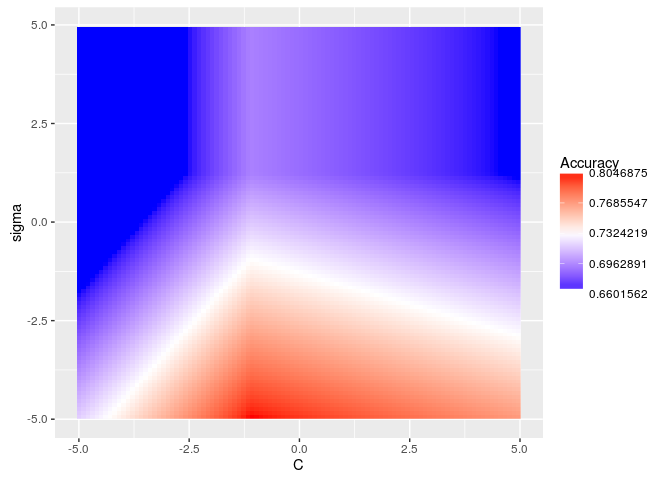
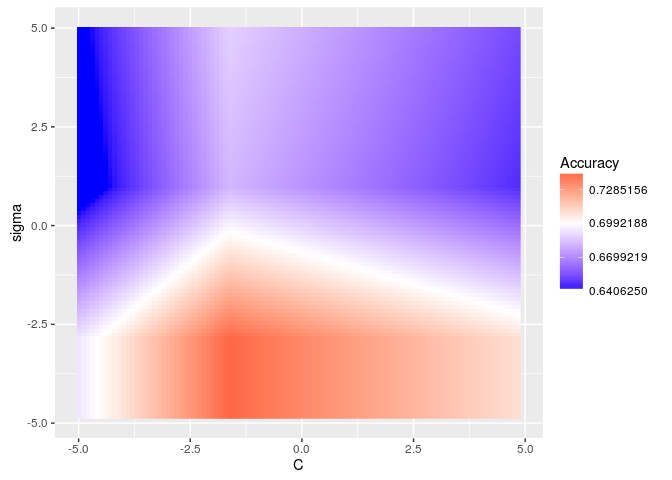
Add prototype updates

diff --git a/tutorial_draft.md b/tutorial_draft.md
@@ -51,7 +51,7 @@ ps = makeParamSet(
   makeNumericParam("C", lower = -5, upper = 5, trafo = function(x) 2^x)
 )
 ctrl = makeTuneControlRandom(maxit = 100L)
-rdesc = makeResampleDesc("CV", iters = 2L)
+rdesc = makeResampleDesc("Holdout")
 res = tuneParams("classif.ksvm", task = pid.task, control = ctrl, 
            measures = list(acc, mmce), resampling = rdesc, par.set = ps, 
            show.info = F)
@@ -65,13 +65,13 @@ generateHyperParsEffectData(res, trafo = T, include.diagnostics = F)
     ## Nested CV Used: FALSE
     ## [1] "Partial dependence generated"
     ## Snapshot of $data:
-    ##           C acc.test.mean mmce.test.mean iteration exec.time
-    ## 1  6.275722     0.7565104      0.2434896         1     0.050
-    ## 2  7.927461     0.7513021      0.2486979         2     0.039
-    ## 3 19.795971     0.7187500      0.2812500         3     0.044
-    ## 4  4.160300     0.7630208      0.2369792         4     0.039
-    ## 5 12.444617     0.7343750      0.2656250         5     0.041
-    ## 6  1.636330     0.7656250      0.2343750         6     0.038
+    ##            C acc.test.mean mmce.test.mean iteration exec.time
+    ## 1 0.12832648     0.7148438      0.2851562         1     0.034
+    ## 2 1.09789944     0.7070312      0.2929688         2     0.022
+    ## 3 0.05462957     0.6562500      0.3437500         3     0.023
+    ## 4 2.71591622     0.7070312      0.2929688         4     0.024
+    ## 5 0.73231680     0.7187500      0.2812500         5     0.021
+    ## 6 1.81359088     0.7070312      0.2929688         6     0.022
 
 In the example below, we perform grid search on the C parameter for SVM on the famous Pima Indians dataset using nested cross validation. We generate the hyperparameter effect data so that the C parameter is on the untransformed scale and we do not include diagnostic data. As you can see below, nested cross validation is supported without any extra work by the user, allowing the user to obtain an unbiased estimator for the performance.
 
@@ -80,7 +80,7 @@ ps = makeParamSet(
   makeNumericParam("C", lower = -5, upper = 5, trafo = function(x) 2^x)
 )
 ctrl = makeTuneControlGrid()
-rdesc = makeResampleDesc("CV", iters = 2L)
+rdesc = makeResampleDesc("Holdout")
 lrn = makeTuneWrapper("classif.ksvm", control = ctrl, 
            measures = list(acc, mmce), resampling = rdesc, par.set = ps, 
            show.info = F)
@@ -96,12 +96,12 @@ generateHyperParsEffectData(res)
     ## [1] "Partial dependence generated"
     ## Snapshot of $data:
     ##            C acc.test.mean mmce.test.mean iteration exec.time
-    ## 1 -5.0000000     0.6458333      0.3541667         1     0.026
-    ## 2 -3.8888889     0.6458333      0.3541667         2     0.026
-    ## 3 -2.7777778     0.6770833      0.3229167         3     0.025
-    ## 4 -1.6666667     0.7239583      0.2760417         4     0.026
-    ## 5 -0.5555556     0.7578125      0.2421875         5     0.026
-    ## 6  0.5555556     0.7395833      0.2604167         6     0.026
+    ## 1 -5.0000000     0.6796875      0.3203125         1     0.016
+    ## 2 -3.8888889     0.6796875      0.3203125         2     0.015
+    ## 3 -2.7777778     0.7343750      0.2656250         3     0.016
+    ## 4 -1.6666667     0.7187500      0.2812500         4     0.015
+    ## 5 -0.5555556     0.7109375      0.2890625         5     0.015
+    ## 6  0.5555556     0.7812500      0.2187500         6     0.015
     ##   nested_cv_run
     ## 1             1
     ## 2             1
@@ -304,28 +304,36 @@ ps = makeParamSet(
   makeNumericParam("C", lower = -5, upper = 5, trafo = function(x) 2^x),
   makeNumericParam("sigma", lower = -5, upper = 5, trafo = function(x) 2^x),
   makeDiscreteParam("degree", values = 2:5))
-ctrl = makeTuneControlRandom(maxit = 300L)
-rdesc = makeResampleDesc("Holdout")
+ctrl = makeTuneControlRandom(maxit = 100L)
+rdesc = makeResampleDesc("Holdout", predict = "both")
 learn = makeLearner("classif.ksvm", par.vals = list(kernel = "besseldot"))
-res = tuneParams(learn, task = pid.task, control = ctrl, measures = acc,
+res = tuneParams(learn, task = pid.task, control = ctrl, 
+  measures = list(acc,setAggregation(acc, train.mean)),
                  resampling = rdesc, par.set = ps, show.info = F)
 generateHyperParsEffectData(res)
 ```
 
     ## HyperParsEffectData:
     ## Hyperparameters: C,sigma,degree
-    ## Measures: acc.test.mean
+    ## Measures: acc.test.mean,acc.train.mean
     ## Optimizer: TuneControlRandom
     ## Nested CV Used: FALSE
     ## [1] "Partial dependence generated"
     ## Snapshot of $data:
-    ##            C      sigma degree acc.test.mean iteration exec.time
-    ## 1  2.5676296  2.2397856      2     0.6523438         1     0.141
-    ## 2 -0.4410627 -0.4767048      3     0.7734375         2     0.077
-    ## 3  0.9511055 -3.6479551      3     0.7617188         3     0.050
-    ## 4 -0.3590170 -2.6869227      2     0.7656250         4     0.049
-    ## 5 -0.5862703  0.9642845      5     0.6562500         5     0.134
-    ## 6 -1.2711677 -2.6709911      5     0.7695312         6     0.054
+    ##            C      sigma degree acc.test.mean acc.train.mean iteration
+    ## 1 -4.1457644  1.8948733      2     0.6484375      0.6523438         1
+    ## 2 -3.5077354 -3.1114005      3     0.6484375      0.6523438         2
+    ## 3 -1.2817892 -3.7379709      4     0.6601562      0.6562500         3
+    ## 4 -2.8210494 -1.1010886      5     0.7500000      0.7792969         4
+    ## 5  1.1966207 -0.3294237      4     0.7265625      0.9179688         5
+    ## 6  0.2398466  1.0220886      4     0.6445312      0.9960938         6
+    ##   exec.time
+    ## 1     0.310
+    ## 2     0.123
+    ## 3     0.120
+    ## 4     0.153
+    ## 5     0.168
+    ## 6     0.291
 
 Now that we've generated the data, we can create the partial dependency using the `partial.dep` arg:
 
@@ -358,3 +366,27 @@ plotHyperParsEffect(data, x = "C", y = "acc.test.mean", z = "degree",
 ```
 
 ![](tutorial_draft_files/figure-markdown_github/bi_scatter-1.png)
+
+New features
+------------
+
+Provide an option so that we can see train/test on the same plot. This is harder to solve than it looks due to cases with nested CV and learner crashes. Naive implementation:
+
+``` r
+x = reshape2::melt(data$data,
+  id.vars = c(data$hyperparams, "iteration", "exec.time"),
+  variable.name = "measure", value.name = "performance")
+ggplot(x, aes(x=C, y=performance, color=measure)) + geom_line()
+```
+
+![](tutorial_draft_files/figure-markdown_github/train_test-1.png)
+
+Provide feature importance as a separate function:
+
+``` r
+# wrap this in a new function
+feat.imp = generateFilterValuesData(data$partial.data[[2]])
+plotFilterValues(feat.imp)
+```
+
+![](tutorial_draft_files/figure-markdown_github/feat_imp-1.png)
